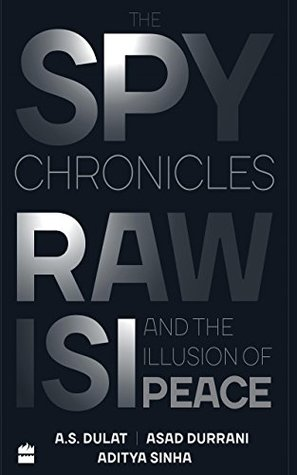
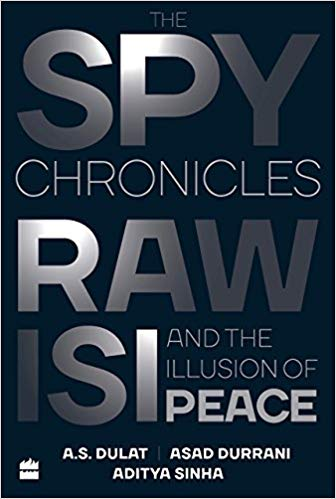
new book added

diff --git a/bookshelf/index.html b/bookshelf/index.html
@@ -22,6 +22,7 @@
   
 <div class="books">
   <h1>Have Read </h1>
+  <img src="imgs/spy_chronicles.jpg">
   <img src="imgs/power_ofHabbit.png">
   <img src="imgs/Outliers_success.jpg">
   <img src="imgs/bhutto_lastDays.jpg">
@@ -49,7 +50,7 @@
   <h1>To Read</h1>
   
   <a href="">
-  <img src="imgs/spy_chronicles.jpg.jpg">
+  
   <img src="imgs/black_sawan.jpg">
   <img src="imgs/signal_noise.jpg">
   <img src="imgs/aagKA_drya.jpg">
